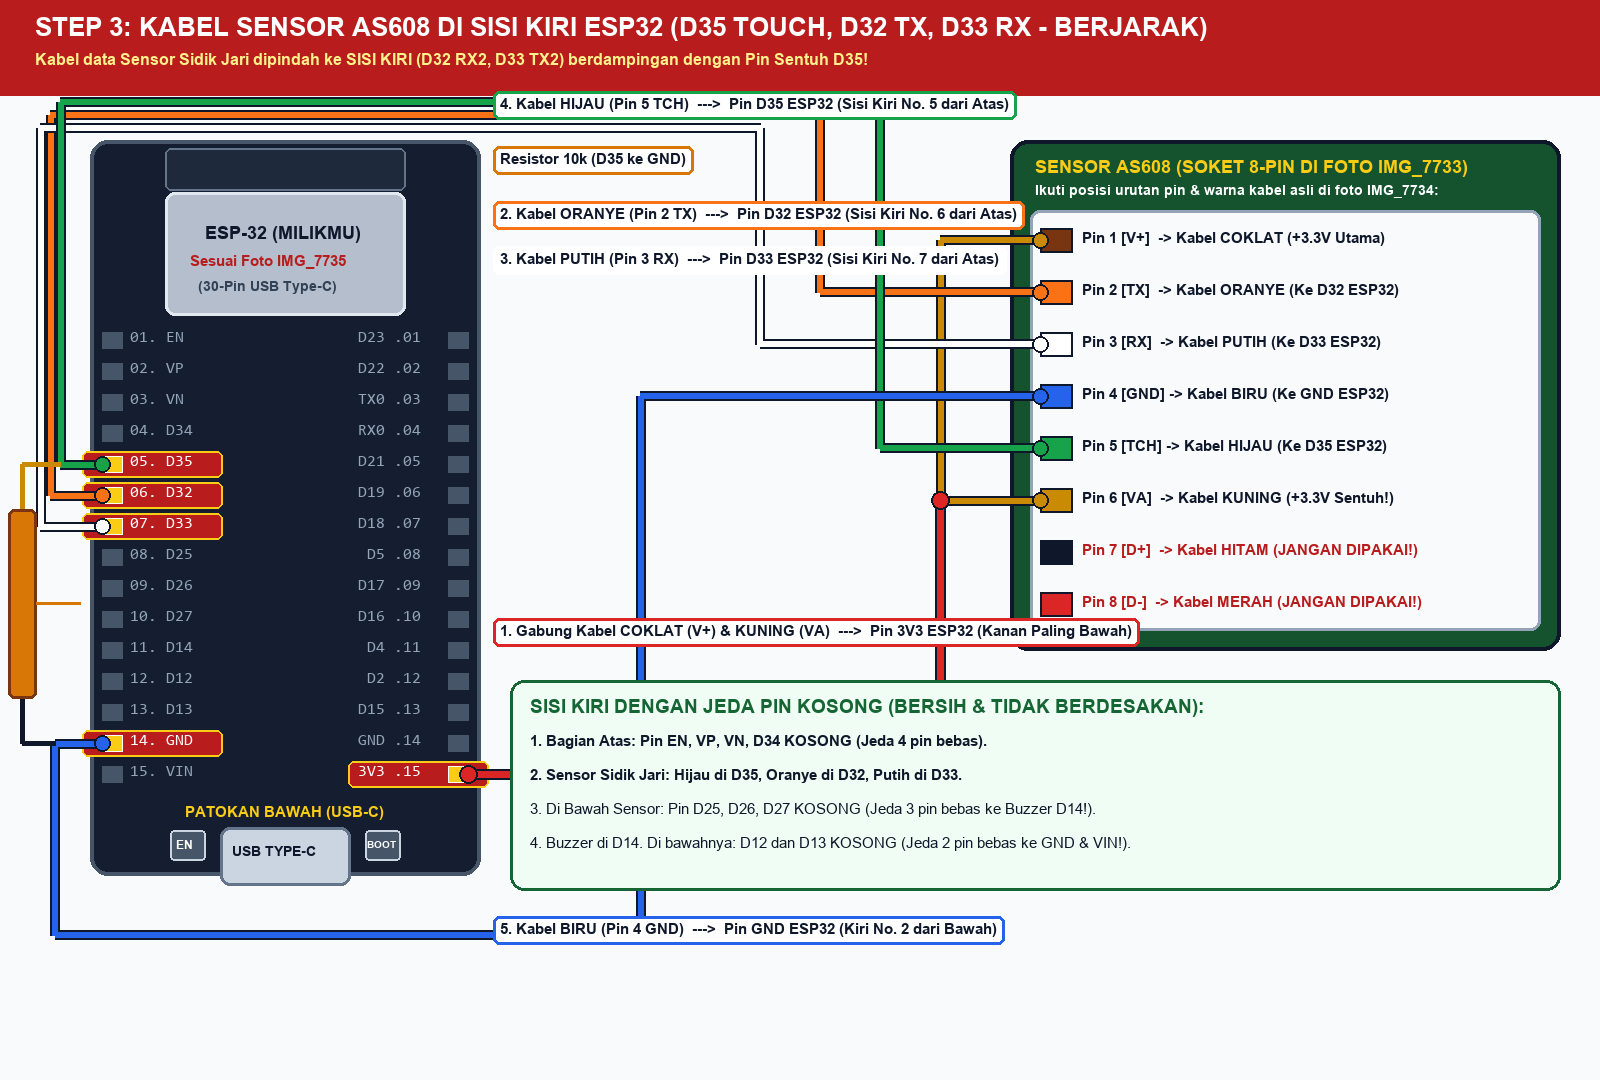
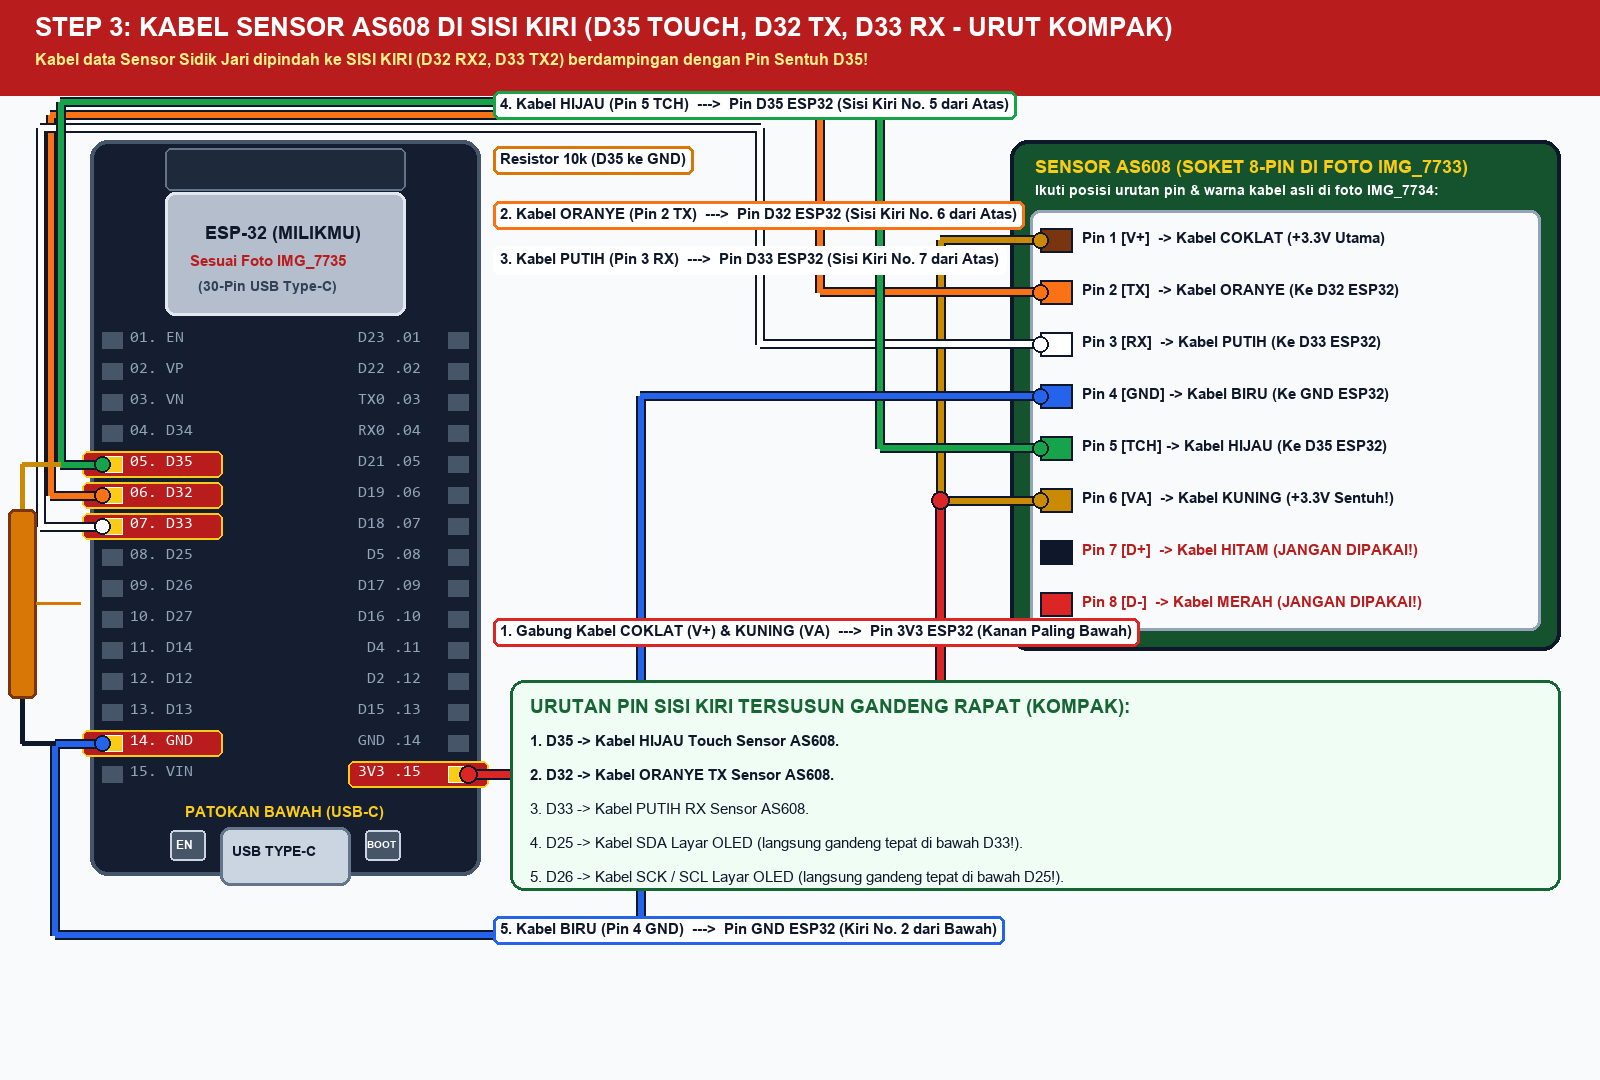
refactor: susun pin rapat urut kompak tanpa jeda (Fingerprint + OLED berjejer di sisi kiri)

Changed region(s): [[0.3125, 0.6417, 0.75, 0.825], [0.375, 0.0, 0.75, 0.0306]]

diff --git a/render_wiring_steps.py b/render_wiring_steps.py
@@ -267,10 +267,10 @@ def make_step2():
     lbls = []
 
     d.rectangle([0, 0, W, 90], fill=(29, 78, 216))
-    d.text((35, 15), "STEP 2: PASANG LAYAR OLED 0.91\" KE ESP32 (D21 SDA & D22 SCL - BERJARAK & RAPI)", fill=(255, 255, 255), font=get_font(26, bold=True))
-    d.text((35, 53), "Menggunakan Pin Hardware Asli I2C ESP32 (D21 SDA & D22 SCL). Kabel tidak numpuk dan ada jeda pin kosong!", fill=(219, 234, 254), font=get_font(17, bold=True))
+    d.text((35, 15), "STEP 2: PASANG LAYAR OLED 0.91\" KE SISI KIRI ESP32 (D25 SDA & D26 SCL)", fill=(255, 255, 255), font=get_font(26, bold=True))
+    d.text((35, 53), "Kabel Layar OLED ditata URUT KOMPAK di SISI KIRI (D25 SDA & D26 SCL) menyatu dengan sensor!", fill=(219, 234, 254), font=get_font(17, bold=True))
 
-    esp_coords = draw_esp32(d, 90, 130, active_left=["GND_L"], active_right=["D22", "D21", "3V3"])
+    esp_coords = draw_esp32(d, 90, 130, active_left=["D25", "D26", "GND_L"], active_right=["3V3"])
 
     ox, oy = 1020, 220
     ow, oh = 520, 340
@@ -278,8 +278,8 @@ def make_step2():
     d.rounded_rectangle([ox+130, oy+35, ox+ow-30, oy+oh-35], radius=8, fill=(10, 15, 25), outline=(56, 189, 248), width=3)
     d.text((ox+165, oy+95), "OLED 0.91\" BIRU", fill=(56, 189, 248), font=get_font(28, bold=True))
     d.text((ox+165, oy+140), "(Sesuai Foto IMG_7736)", fill=(250, 204, 21), font=get_font(19, bold=True))
-    d.text((ox+165, oy+180), "I2C SDA: D21 | SCL: D22", fill=(255, 255, 255), font=get_font(16, bold=True))
-    d.text((ox+165, oy+205), "Ada Jeda Pin Kosong!", fill=(255, 255, 255), font=get_font(16, bold=True))
+    d.text((ox+165, oy+180), "I2C SDA: D25 | SCL: D26", fill=(255, 255, 255), font=get_font(16, bold=True))
+    d.text((ox+165, oy+205), "Urut Kompak Sisi Kiri!", fill=(255, 255, 255), font=get_font(16, bold=True))
 
     oled_pins = [
         ("SDA", oy+65),
@@ -293,21 +293,25 @@ def make_step2():
         d.text((ox+55, py-12), pname, fill=(255, 255, 255), font=get_font(21, bold=True, mono=True))
         oled_pts[pname] = (ox+15, py)
 
-    # 1. SDA -> D21 (Kanan No. 5 dari Atas)
+    # 1. SDA -> D25 (Sisi Kiri No. 8 dari Atas)
     draw_wire(d, [
         oled_pts["SDA"],
-        (650, oled_pts["SDA"][1]),
-        (650, esp_coords["D21"][1]),
-        esp_coords["D21"]
-    ], (16, 185, 129), width=7, label="1. Pin SDA OLED  --->  Pin D21 ESP32 (Kanan No. 5 dari Atas)", label_pos=(520, 280), labels_queue=lbls)
+        (940, oled_pts["SDA"][1]),
+        (940, 105),
+        (55, 105),
+        (55, esp_coords["D25"][1]),
+        esp_coords["D25"]
+    ], (16, 185, 129), width=7, label="1. Pin SDA OLED  --->  Pin D25 ESP32 (Sisi Kiri No. 8 dari Atas)", label_pos=(520, 95), labels_queue=lbls)
 
-    # 2. SCK / SCL -> D22 (Kanan No. 2 dari Atas)
+    # 2. SCK / SCL -> D26 (Sisi Kiri No. 9 dari Atas)
     draw_wire(d, [
         oled_pts["SCK"],
-        (720, oled_pts["SCK"][1]),
-        (720, esp_coords["D22"][1]),
-        esp_coords["D22"]
-    ], (37, 99, 235), width=7, label="2. Pin SCK / SCL OLED  --->  Pin D22 ESP32 (Kanan No. 2 dari Atas)", label_pos=(520, 200), labels_queue=lbls)
+        (900, oled_pts["SCK"][1]),
+        (900, 118),
+        (45, 118),
+        (45, esp_coords["D26"][1]),
+        esp_coords["D26"]
+    ], (37, 99, 235), width=7, label="2. Pin SCK / SCL OLED  --->  Pin D26 ESP32 (Sisi Kiri No. 9 dari Atas)", label_pos=(520, 140), labels_queue=lbls)
 
     # 3. VCC -> 3V3 (Kanan Paling Bawah)
     draw_wire(d, [
@@ -330,15 +334,15 @@ def make_step2():
     flush_labels(d, lbls)
 
     d.rounded_rectangle([520, 685, 1550, 965], radius=14, fill=(240, 253, 244), outline=(22, 101, 52), width=3)
-    d.text((545, 705), "KEUNGGULAN SKEMA D21 & D22 (BERJARAK LEGA & TIDAK NUMPUK):", fill=(22, 101, 52), font=get_font(20, bold=True))
+    d.text((545, 705), "SKEMA PIN URUT KOMPAK TANPA SELA KOSONG:", fill=(22, 101, 52), font=get_font(20, bold=True))
     tips = [
-        "1. D21 dan D22 adalah pin I2C ASLI ESP32: Tidak butuh konfigurasi khusus (langsung jalan!).",
-        "2. ADA JEDA PIN KOSONG: Di antara D22 dan D21 ada pin TX0 & RX0 yang kosong (kabel tidak berdesakan).",
-        "3. DI BAWAHNYA ADA JEDA KOSONG LAGI: Pin D17, D16, D4, D2, D15 semuanya KOSONG!",
-        "4. Colokan kabel jumper jadi sangat leluasa ditancap dan dicabut dengan jari tanpa sempit."
+        "1. KABEL TERSUSUN BERURUTAN RAPAT: D35 (TCH), D32 (TX), D33 (RX), D25 (SDA), D26 (SCL).",
+        "2. Di kode Arduino: Gunakan 'Wire.begin(25, 26);' (SDA=25, SCL=26).",
+        "3. Semua modul input/display (Fingerprint + OLED) bersatu rapi di deretan sisi kiri ESP32.",
+        "4. Sisi kanan murni disediakan untuk kabel modul Ethernet LAN W5500."
     ]
     for i, t in enumerate(tips):
-        d.text((545, 745 + i*38), t, fill=(15, 23, 42), font=get_font(16, bold=(i in [0,1,2])))
+        d.text((545, 745 + i*38), t, fill=(15, 23, 42), font=get_font(16, bold=(i in [0,1])))
 
     save_both(img, "step2_wiring_oled.png")
 
@@ -353,7 +357,7 @@ def make_step3():
     lbls = []
 
     d.rectangle([0, 0, W, 95], fill=(185, 28, 28))
-    d.text((35, 12), "STEP 3: KABEL SENSOR AS608 DI SISI KIRI ESP32 (D35 TOUCH, D32 TX, D33 RX - BERJARAK)", fill=(255, 255, 255), font=get_font(26, bold=True))
+    d.text((35, 12), "STEP 3: KABEL SENSOR AS608 DI SISI KIRI (D35 TOUCH, D32 TX, D33 RX - URUT KOMPAK)", fill=(255, 255, 255), font=get_font(26, bold=True))
     d.text((35, 50), "Kabel data Sensor Sidik Jari dipindah ke SISI KIRI (D32 RX2, D33 TX2) berdampingan dengan Pin Sentuh D35!", fill=(254, 240, 138), font=get_font(16, bold=True))
 
     esp_coords = draw_esp32(d, 90, 140, active_left=["D35", "D32", "D33", "GND_L"], active_right=["3V3"])
@@ -447,12 +451,13 @@ def make_step3():
     flush_labels(d, lbls)
 
     d.rounded_rectangle([510, 680, 1560, 890], radius=14, fill=(240, 253, 244), outline=(22, 101, 52), width=3)
-    d.text((530, 695), "SISI KIRI DENGAN JEDA PIN KOSONG (BERSIH & TIDAK BERDESAKAN):", fill=(22, 101, 52), font=get_font(19, bold=True))
+    d.text((530, 695), "URUTAN PIN SISI KIRI TERSUSUN GANDENG RAPAT (KOMPAK):", fill=(22, 101, 52), font=get_font(19, bold=True))
     notes = [
-        "1. Bagian Atas: Pin EN, VP, VN, D34 KOSONG (Jeda 4 pin bebas).",
-        "2. Sensor Sidik Jari: Hijau di D35, Oranye di D32, Putih di D33.",
-        "3. Di Bawah Sensor: Pin D25, D26, D27 KOSONG (Jeda 3 pin bebas ke Buzzer D14!).",
-        "4. Buzzer di D14. Di bawahnya: D12 dan D13 KOSONG (Jeda 2 pin bebas ke GND & VIN!)."
+        "1. D35 -> Kabel HIJAU Touch Sensor AS608.",
+        "2. D32 -> Kabel ORANYE TX Sensor AS608.",
+        "3. D33 -> Kabel PUTIH RX Sensor AS608.",
+        "4. D25 -> Kabel SDA Layar OLED (langsung gandeng tepat di bawah D33!).",
+        "5. D26 -> Kabel SCK / SCL Layar OLED (langsung gandeng tepat di bawah D25!)."
     ]
     for i, n in enumerate(notes):
         d.text((530, 732 + i*34), n, fill=(15, 23, 42), font=get_font(15, bold=(i in [0,1])))

diff --git a/README.md b/README.md
@@ -106,9 +106,9 @@ Proyek ini menggunakan **Opsi 2**: modul Ethernet PHY **LAN8720A (RMII Native)**
   - `IO23` <-> `LAN8720A MDC`
   - `IO18` <-> `LAN8720A MDIO`
   - `IO0`  <-> `LAN8720A REFCLK / 50MHz Clock`
-* **Layar OLED 0.91" (I2C Hardware Bawaan ESP32 - Ada Sela/Jeda Pin Kosong):**
-  - `IO21` <-> `OLED SDA`
-  - `IO22` <-> `OLED SCL`
+* **Layar OLED 0.91" (I2C di Sisi Kiri ESP32 - Gandeng Kompak):**
+  - `IO25` <-> `OLED SDA`
+  - `IO26` <-> `OLED SCL`
 * **Sensor Sidik Jari AS608 (UART2 + Touch di Sisi Kiri ESP32):**
   - `IO32` (RX2) <-> `AS608 TX` (Kabel Oranye)
   - `IO33` (TX2) <-> `AS608 RX` (Kabel Putih)
@@ -222,13 +222,12 @@ Casing dirancang presisi dengan toleransi clearance 1.5 mm di sekeliling PCB aga
 #### Step 1: Rakit Dioda Bridge, Resistor 25k & Kalibrasi XL7015 ke 5.00V
 ![Step 1 Kalibrasi XL7015](step1_kalibrasi_xl7015.png)
 
-#### Step 2: Pasang 4 Kabel Layar OLED 0.91" (`SDA, SCK, VCC, GND`) ke ESP32 (Ada Sela & Jeda Pin Kosong)
-Menggunakan pin I2C default ESP32 yang berjarak lega sehingga tidak berdesakan:
-- `SDA` OLED -> Pin **`D21`** ESP32 (Kanan No. 5 dari Atas)
-- `SCK / SCL` OLED -> Pin **`D22`** ESP32 (Kanan No. 2 dari Atas)
+#### Step 2: Pasang 4 Kabel Layar OLED 0.91" (`SDA, SCK, VCC, GND`) ke Sisi Kiri ESP32 (Urut Kompak)
+Kabel data OLED ditata langsung gandeng rapat di bawah kabel sensor sidik jari:
+- `SDA` OLED -> Pin **`D25`** ESP32 (Tepat di bawah pin D33 sensor!)
+- `SCK / SCL` OLED -> Pin **`D26`** ESP32 (Tepat di bawah pin D25!)
 - `VCC` OLED -> Pin **`3V3`** ESP32 (Kanan Paling Bawah)
 - `GND` OLED -> Pin **`GND`** ESP32 (Kiri No. 2 dari Bawah)
-> *Catatan Tata Letak:* Di antara pin D22 dan D21 ada jeda pin kosong (TX0 & RX0). Di bawah D5 juga ada jeda 5 pin kosong (D17, D16, D4, D2, D15) sehingga kabel tidak menumpuk!
 ![Step 2 Wiring OLED](step2_wiring_oled.png)
 
 #### Step 3: Pasang Kabel Sensor Sidik Jari AS608 ke Sisi Kiri ESP32 (Berdampingan di D35, D32, D33)
@@ -284,7 +283,7 @@ Gunakan library resmi ESP32 Ethernet bawaan Arduino core (`ETH.h` yang berbasis 
 #define ETH_TYPE       ETH_PHY_LAN8720
 #define ETH_CLK_MODE   ETH_CLOCK_GPIO0_IN
 
-// OLED I2C (IO21 SDA, IO22 SCL)
+// OLED I2C (IO25 SDA, IO26 SCL)
 Adafruit_SSD1306 display(128, 32, &Wire, -1);
 
 // AS608 Fingerprint di Sisi Kiri ESP32 (UART2: IO32 RX2, IO33 TX2)
@@ -312,7 +311,7 @@ void WiFiEvent(WiFiEvent_t event) {
 
 void setup() {
   Serial.begin(115200);
-  Wire.begin(21, 22); // SDA=IO21, SCL=IO22 (I2C default ESP32)
+  Wire.begin(25, 26); // SDA=IO25, SCL=IO26 (Urut Gandeng di Sisi Kiri ESP32)
   display.begin(SSD1306_SWITCHCAPVCC, 0x3C);
   mySerial.begin(57600, SERIAL_8N1, 32, 33); // RX=IO32, TX=IO33 (Sisi Kiri ESP32)
   
